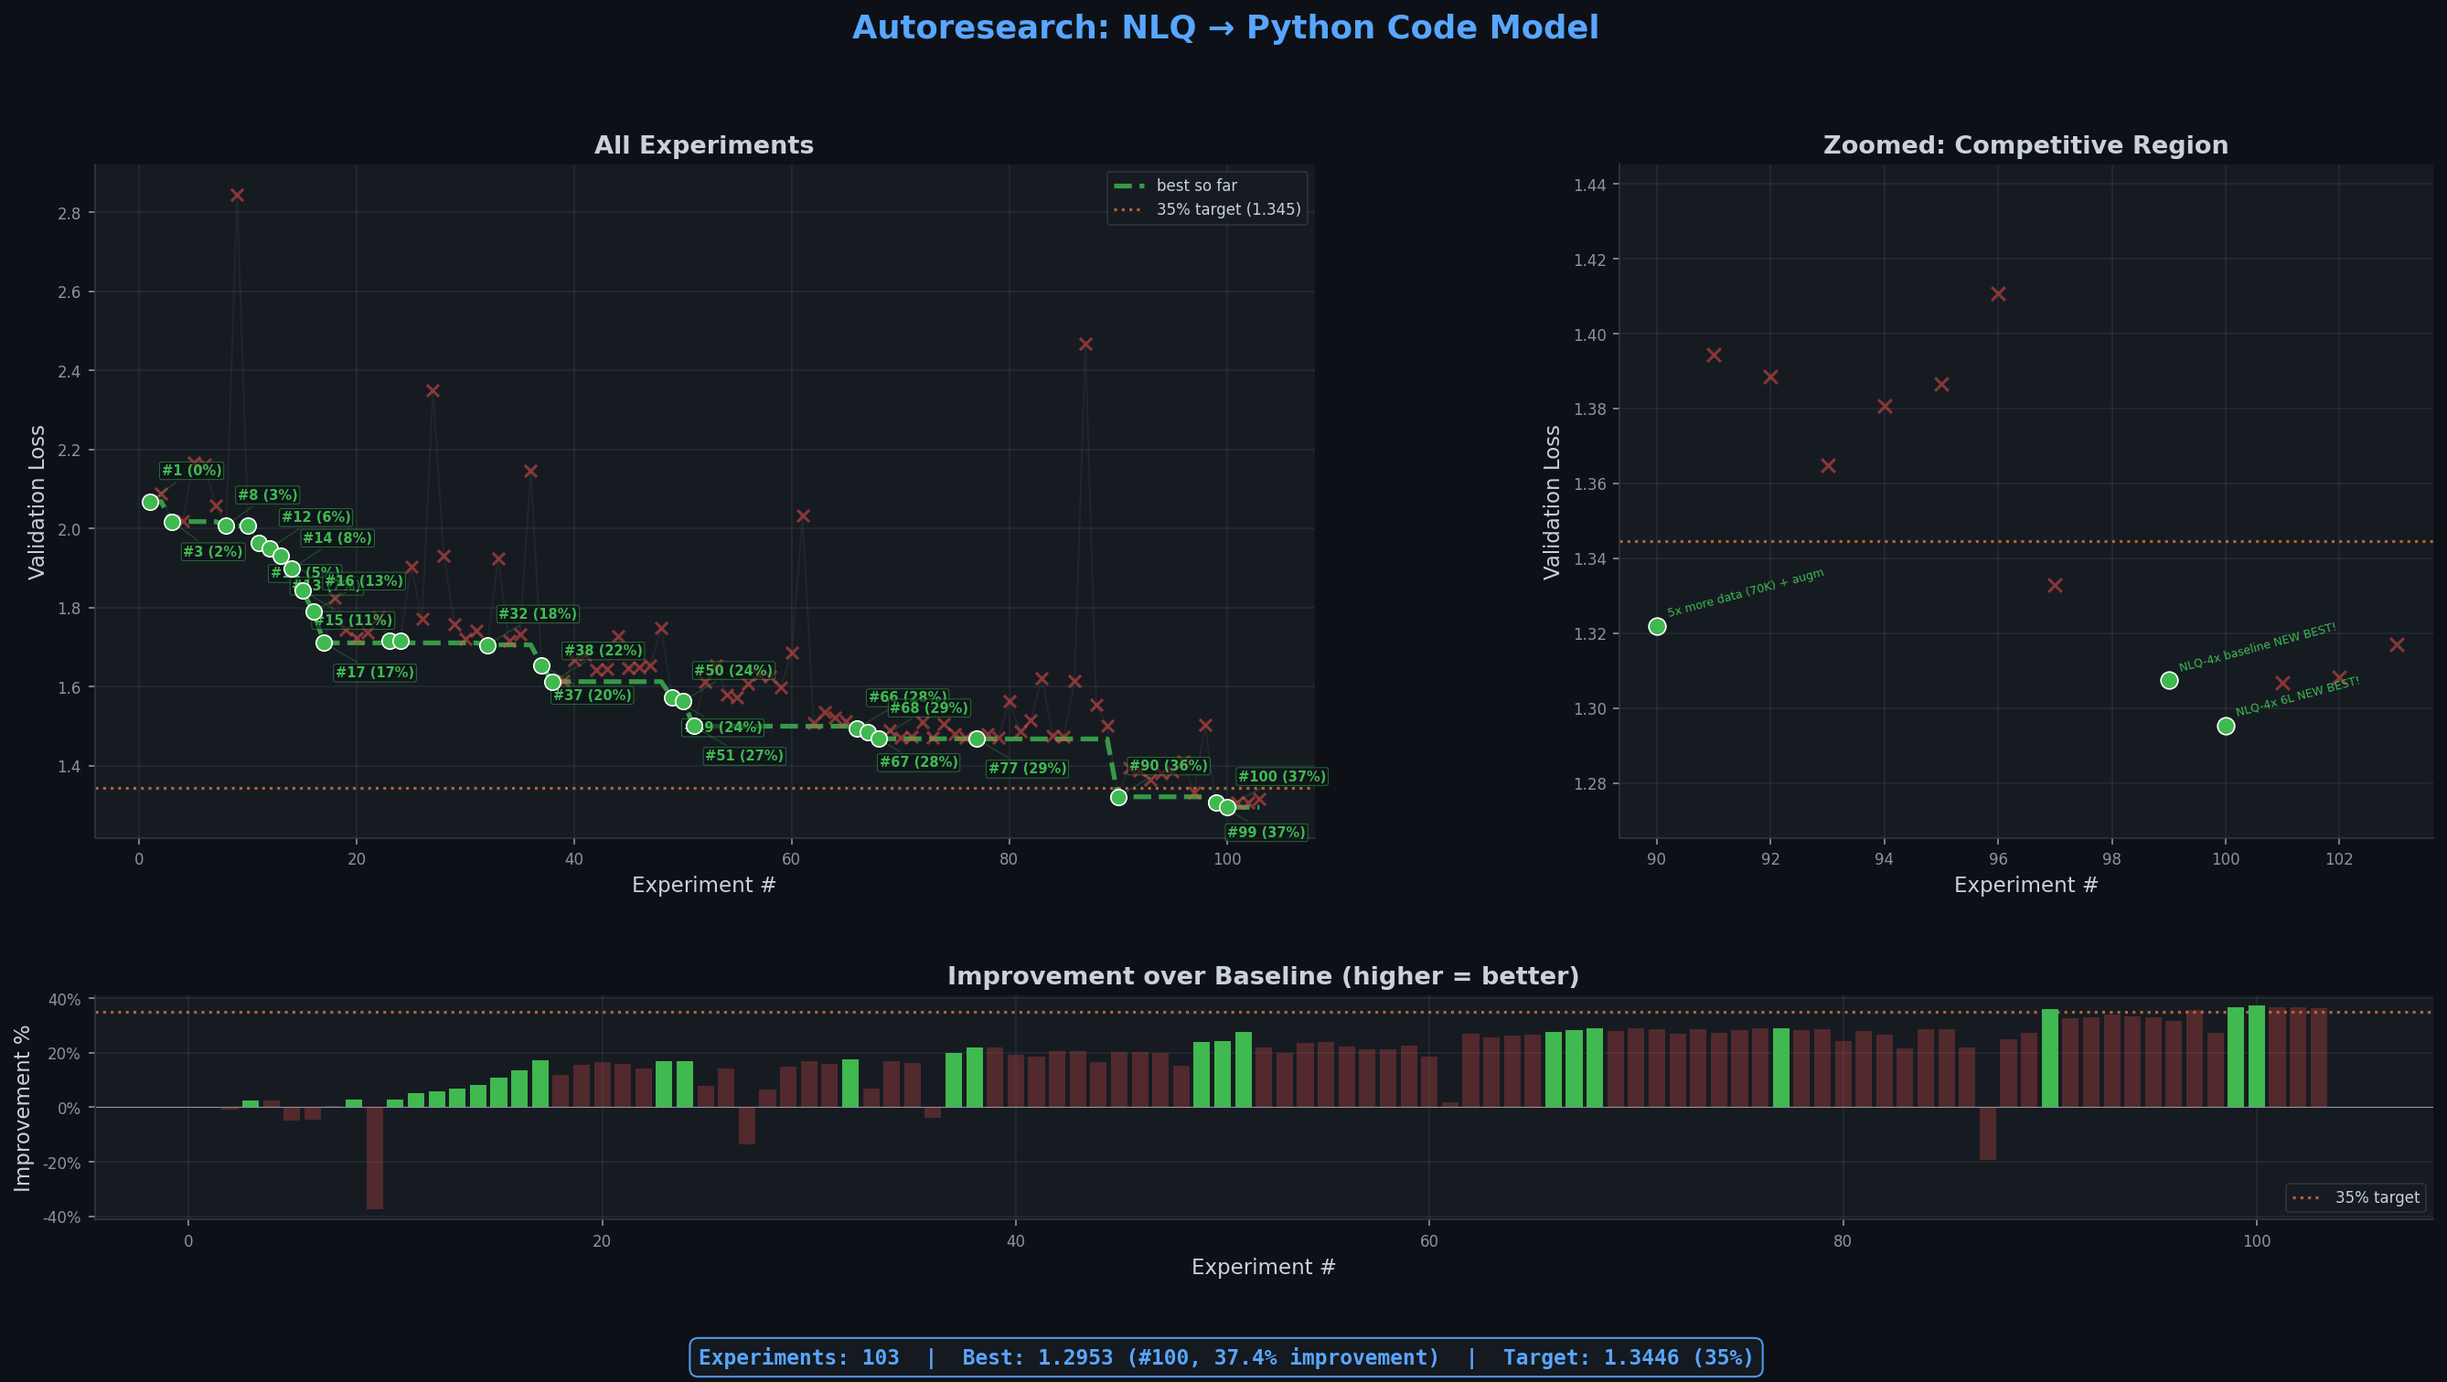
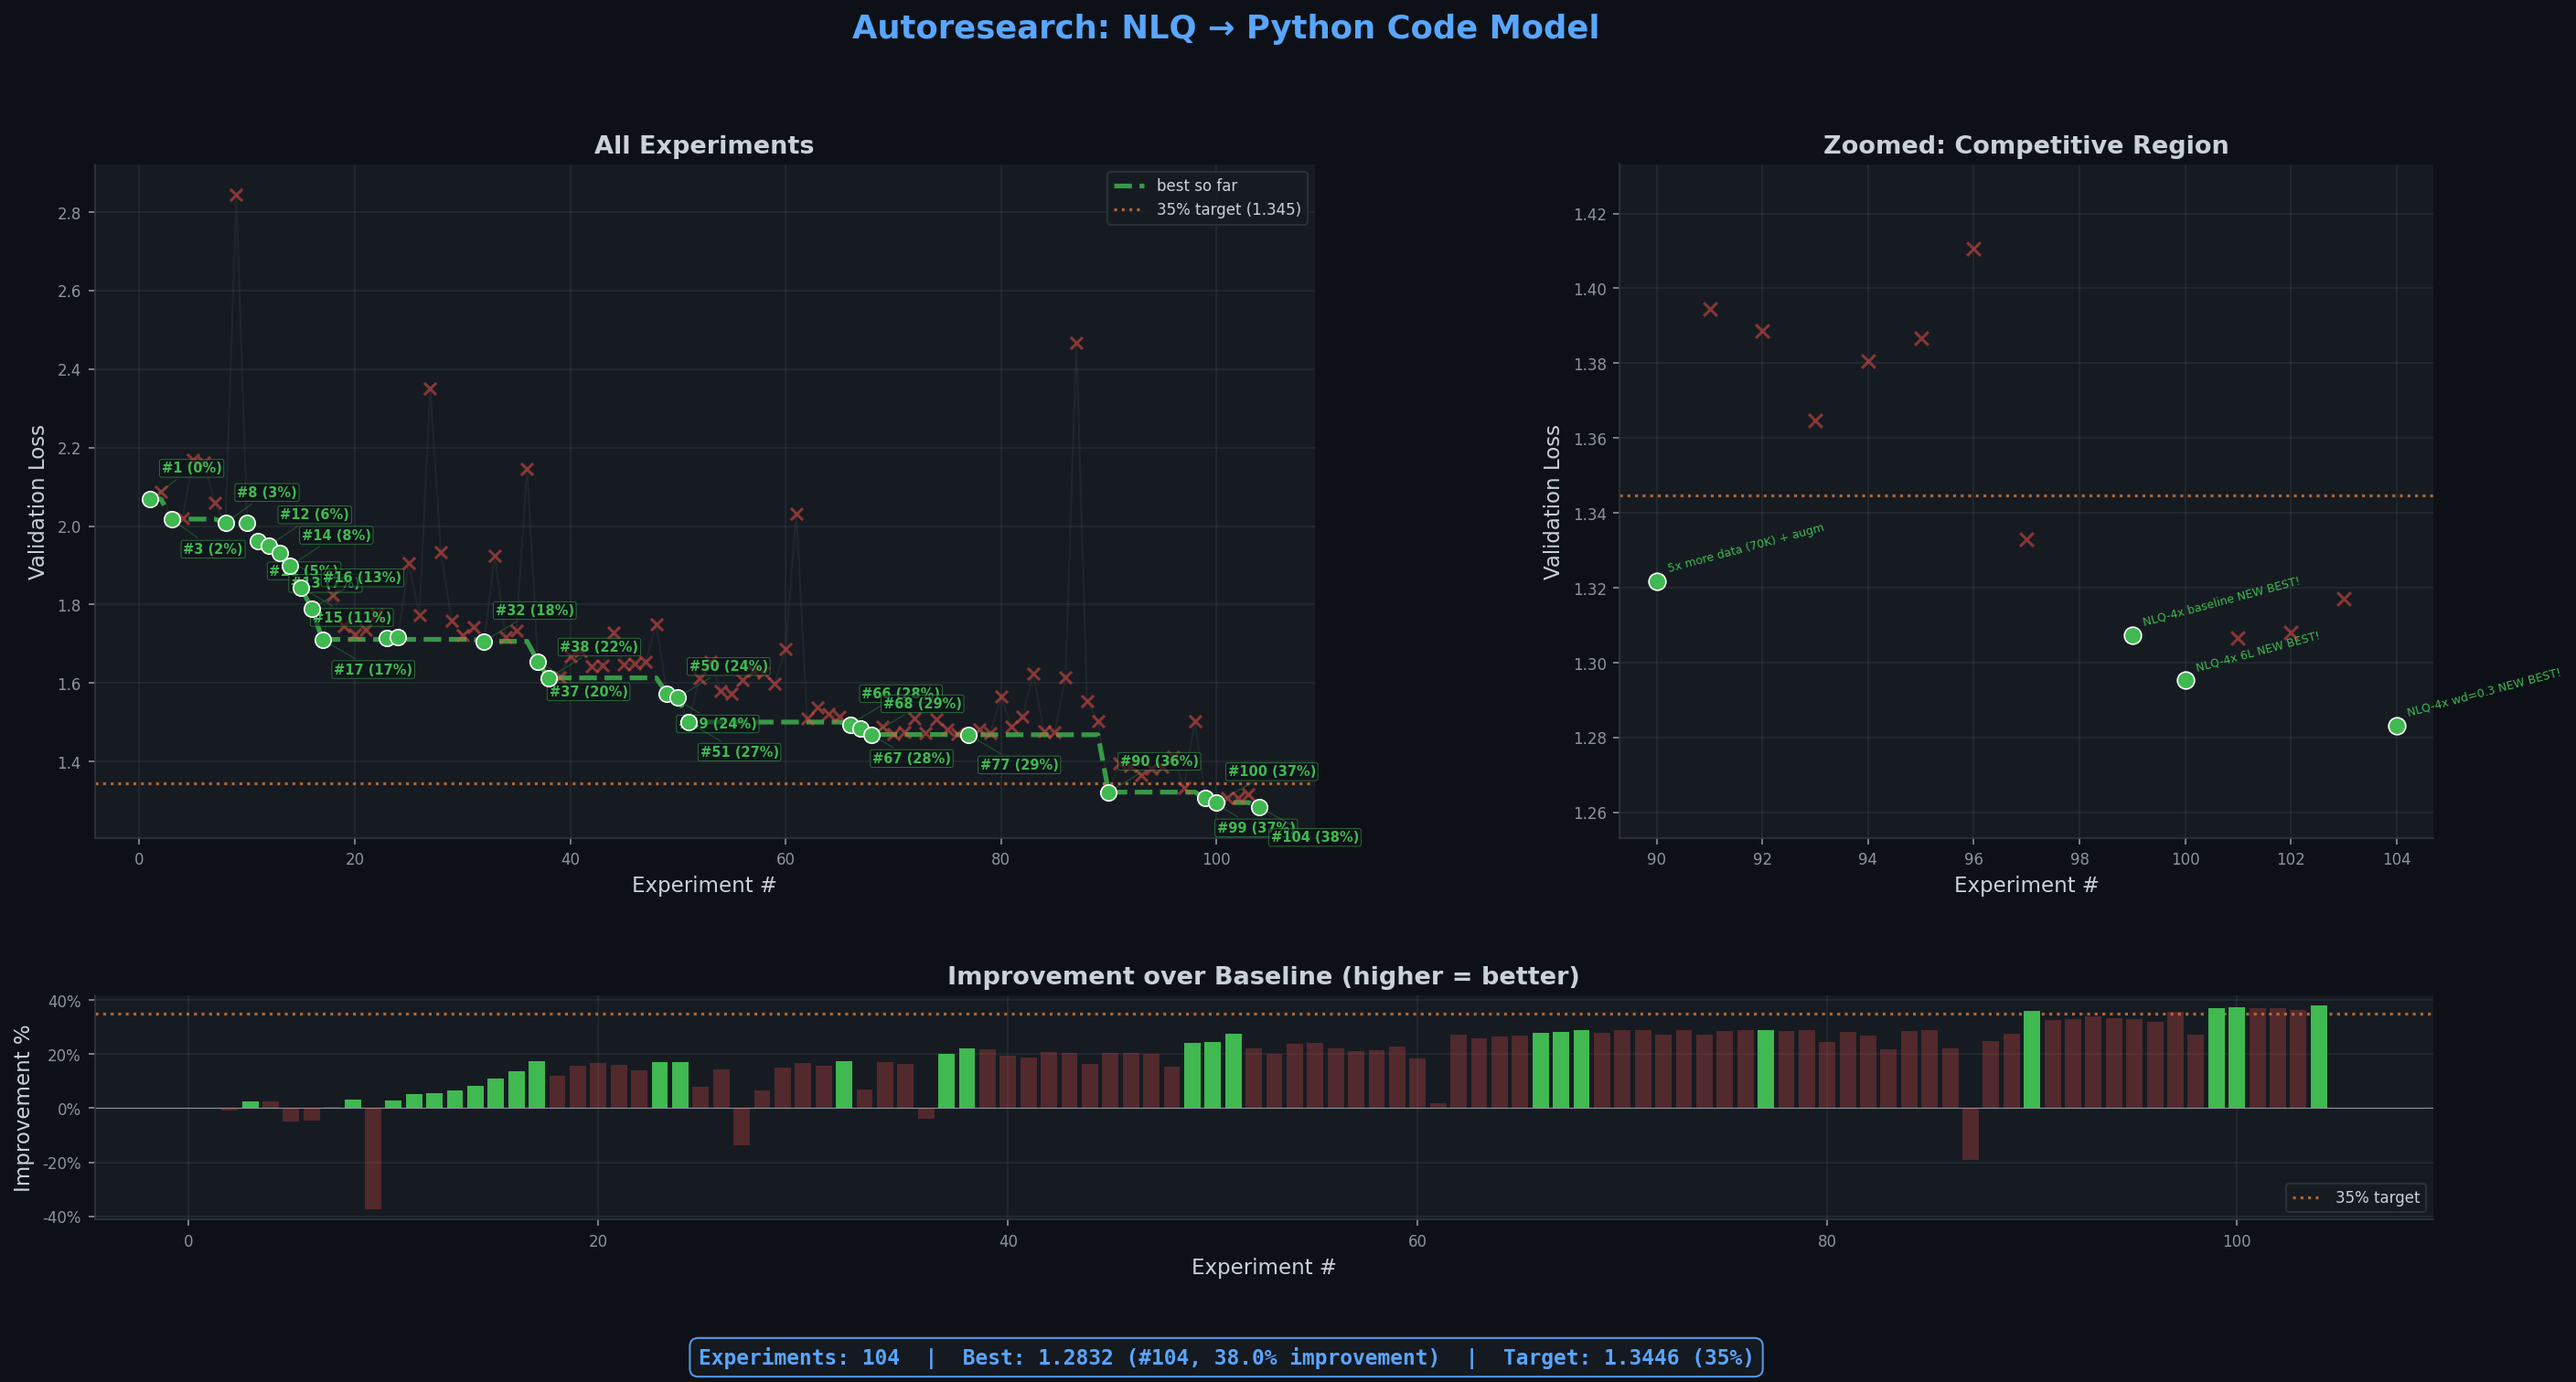
exp 104: NLQ-4x wd=0.3 NEW BEST! (val=1.2832, 38.0%)

diff --git a/train_mlx.py b/train_mlx.py
@@ -48,7 +48,7 @@ DROPOUT = 0.2
 # Training
 BATCH_SIZE = 8
 LEARNING_RATE = 3e-3
-WEIGHT_DECAY = 0.5
+WEIGHT_DECAY = 0.3
 WARMUP_STEPS = 300
 TIME_BUDGET = 600
 GRAD_CLIP = 1.0
